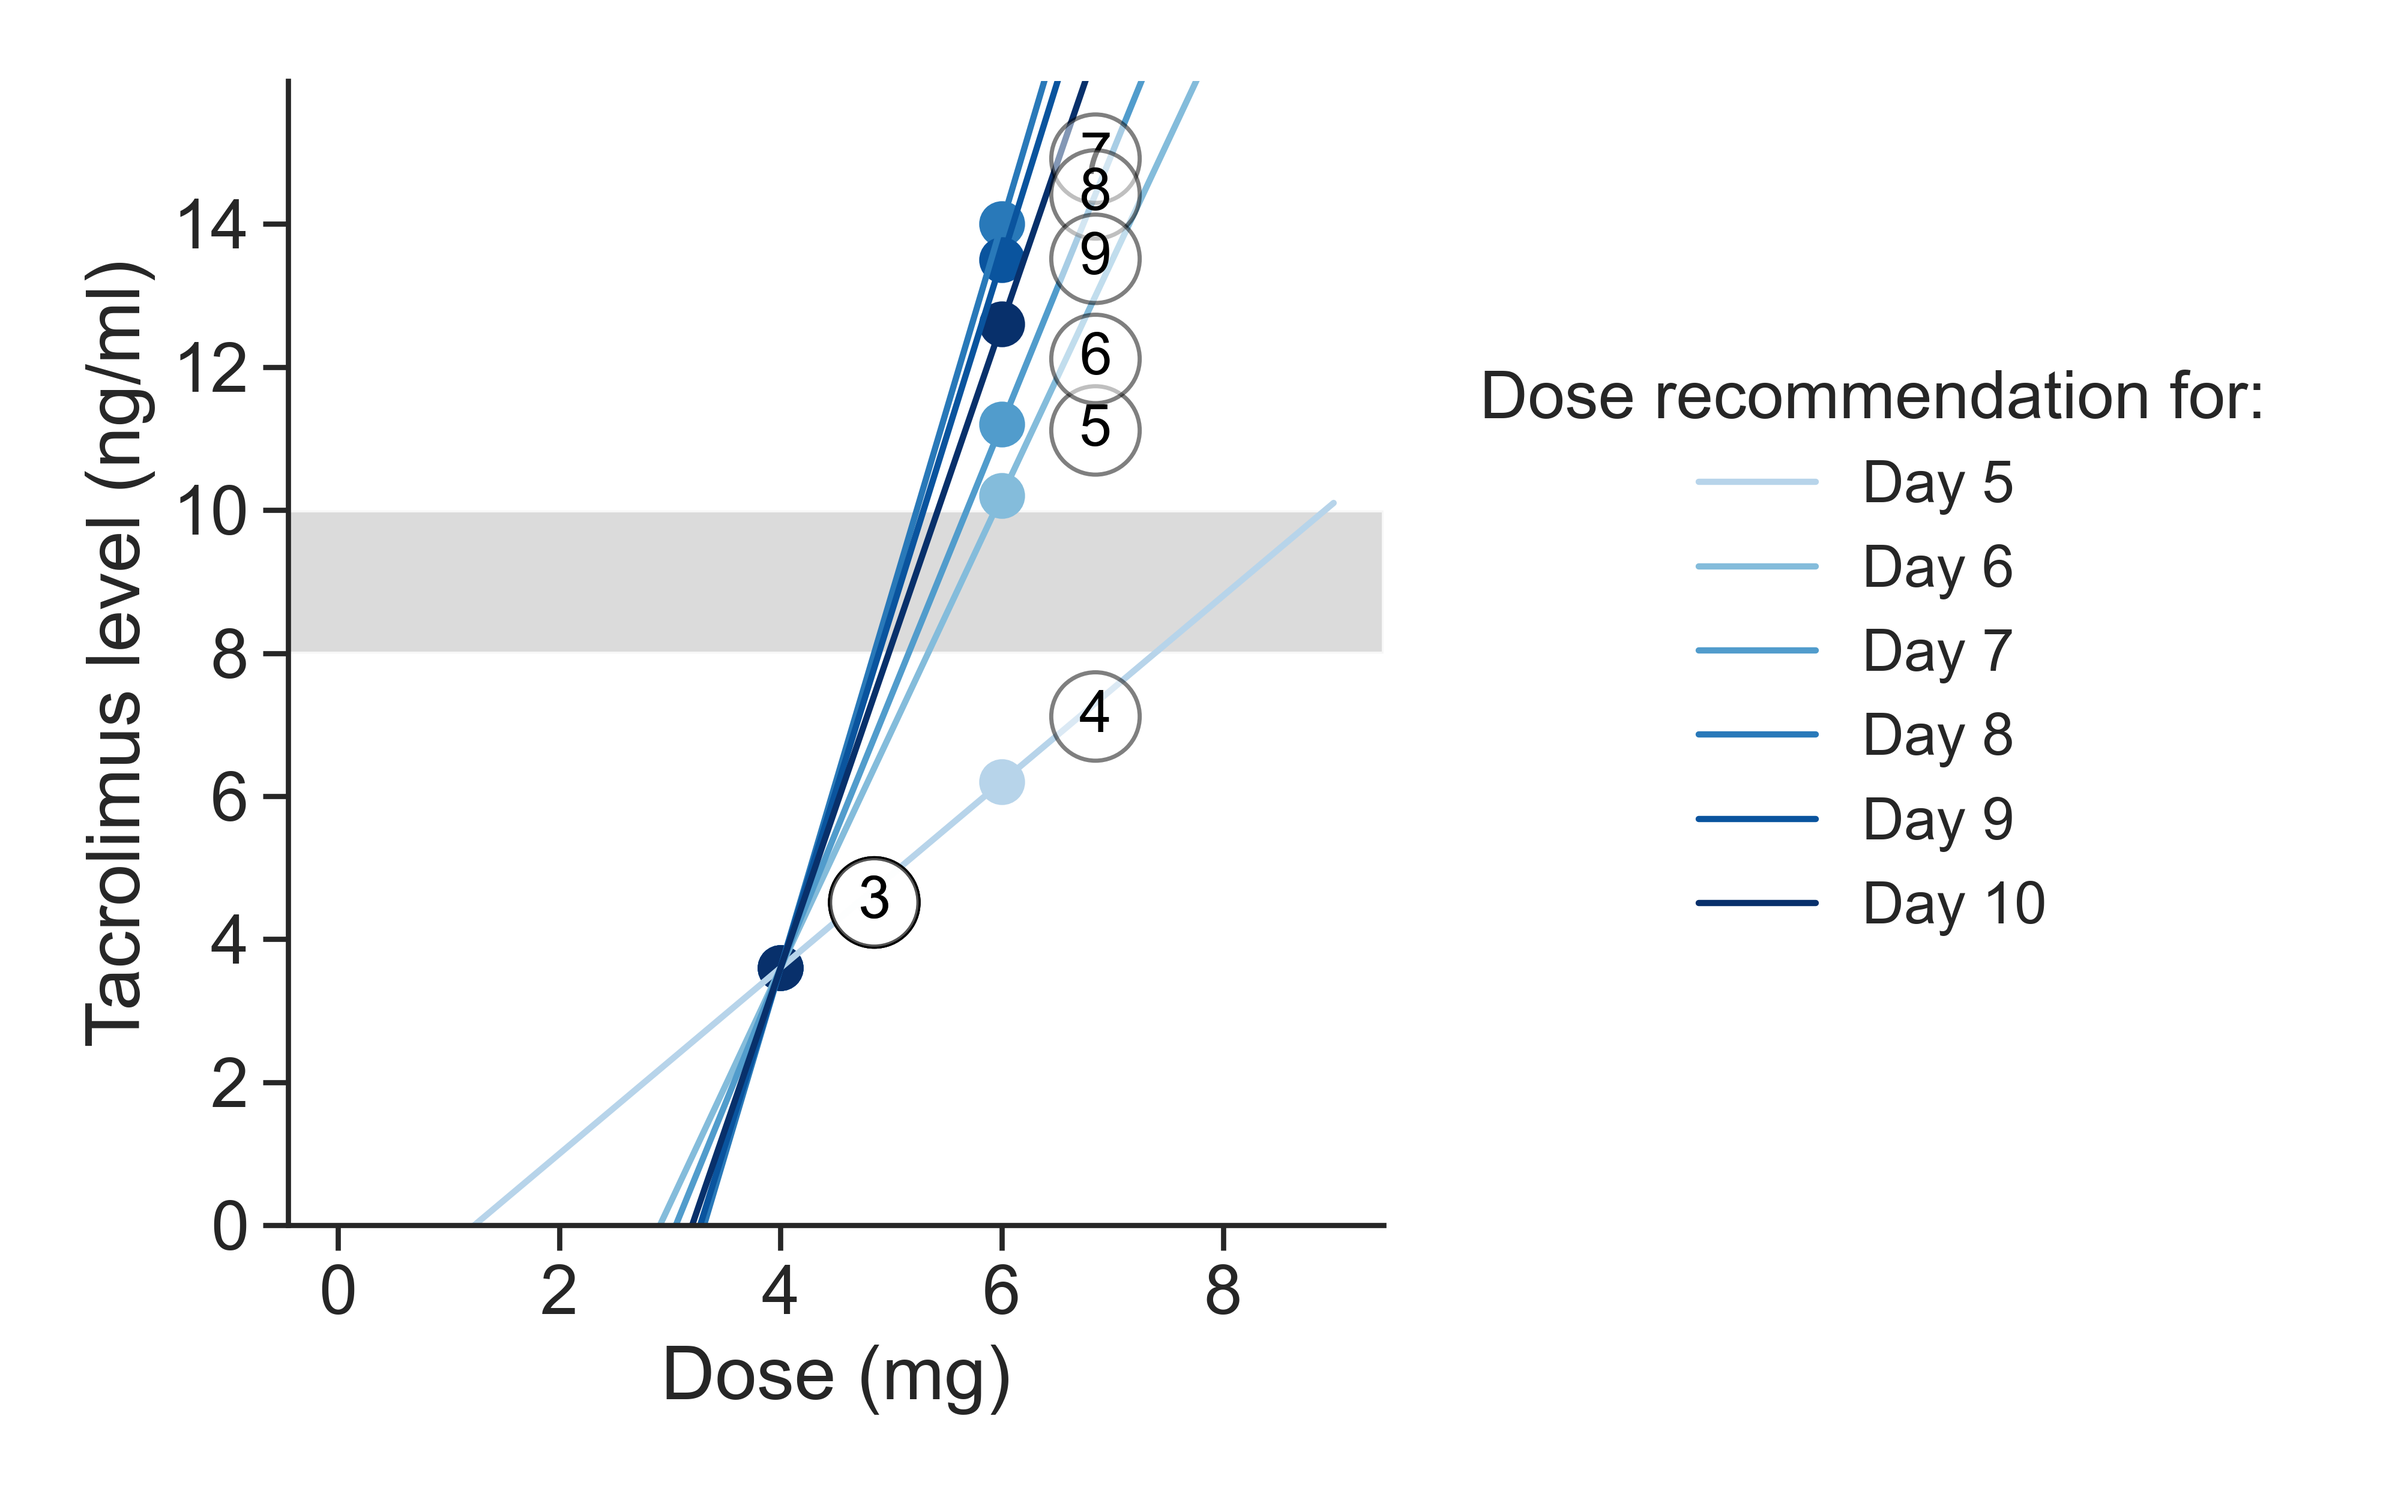
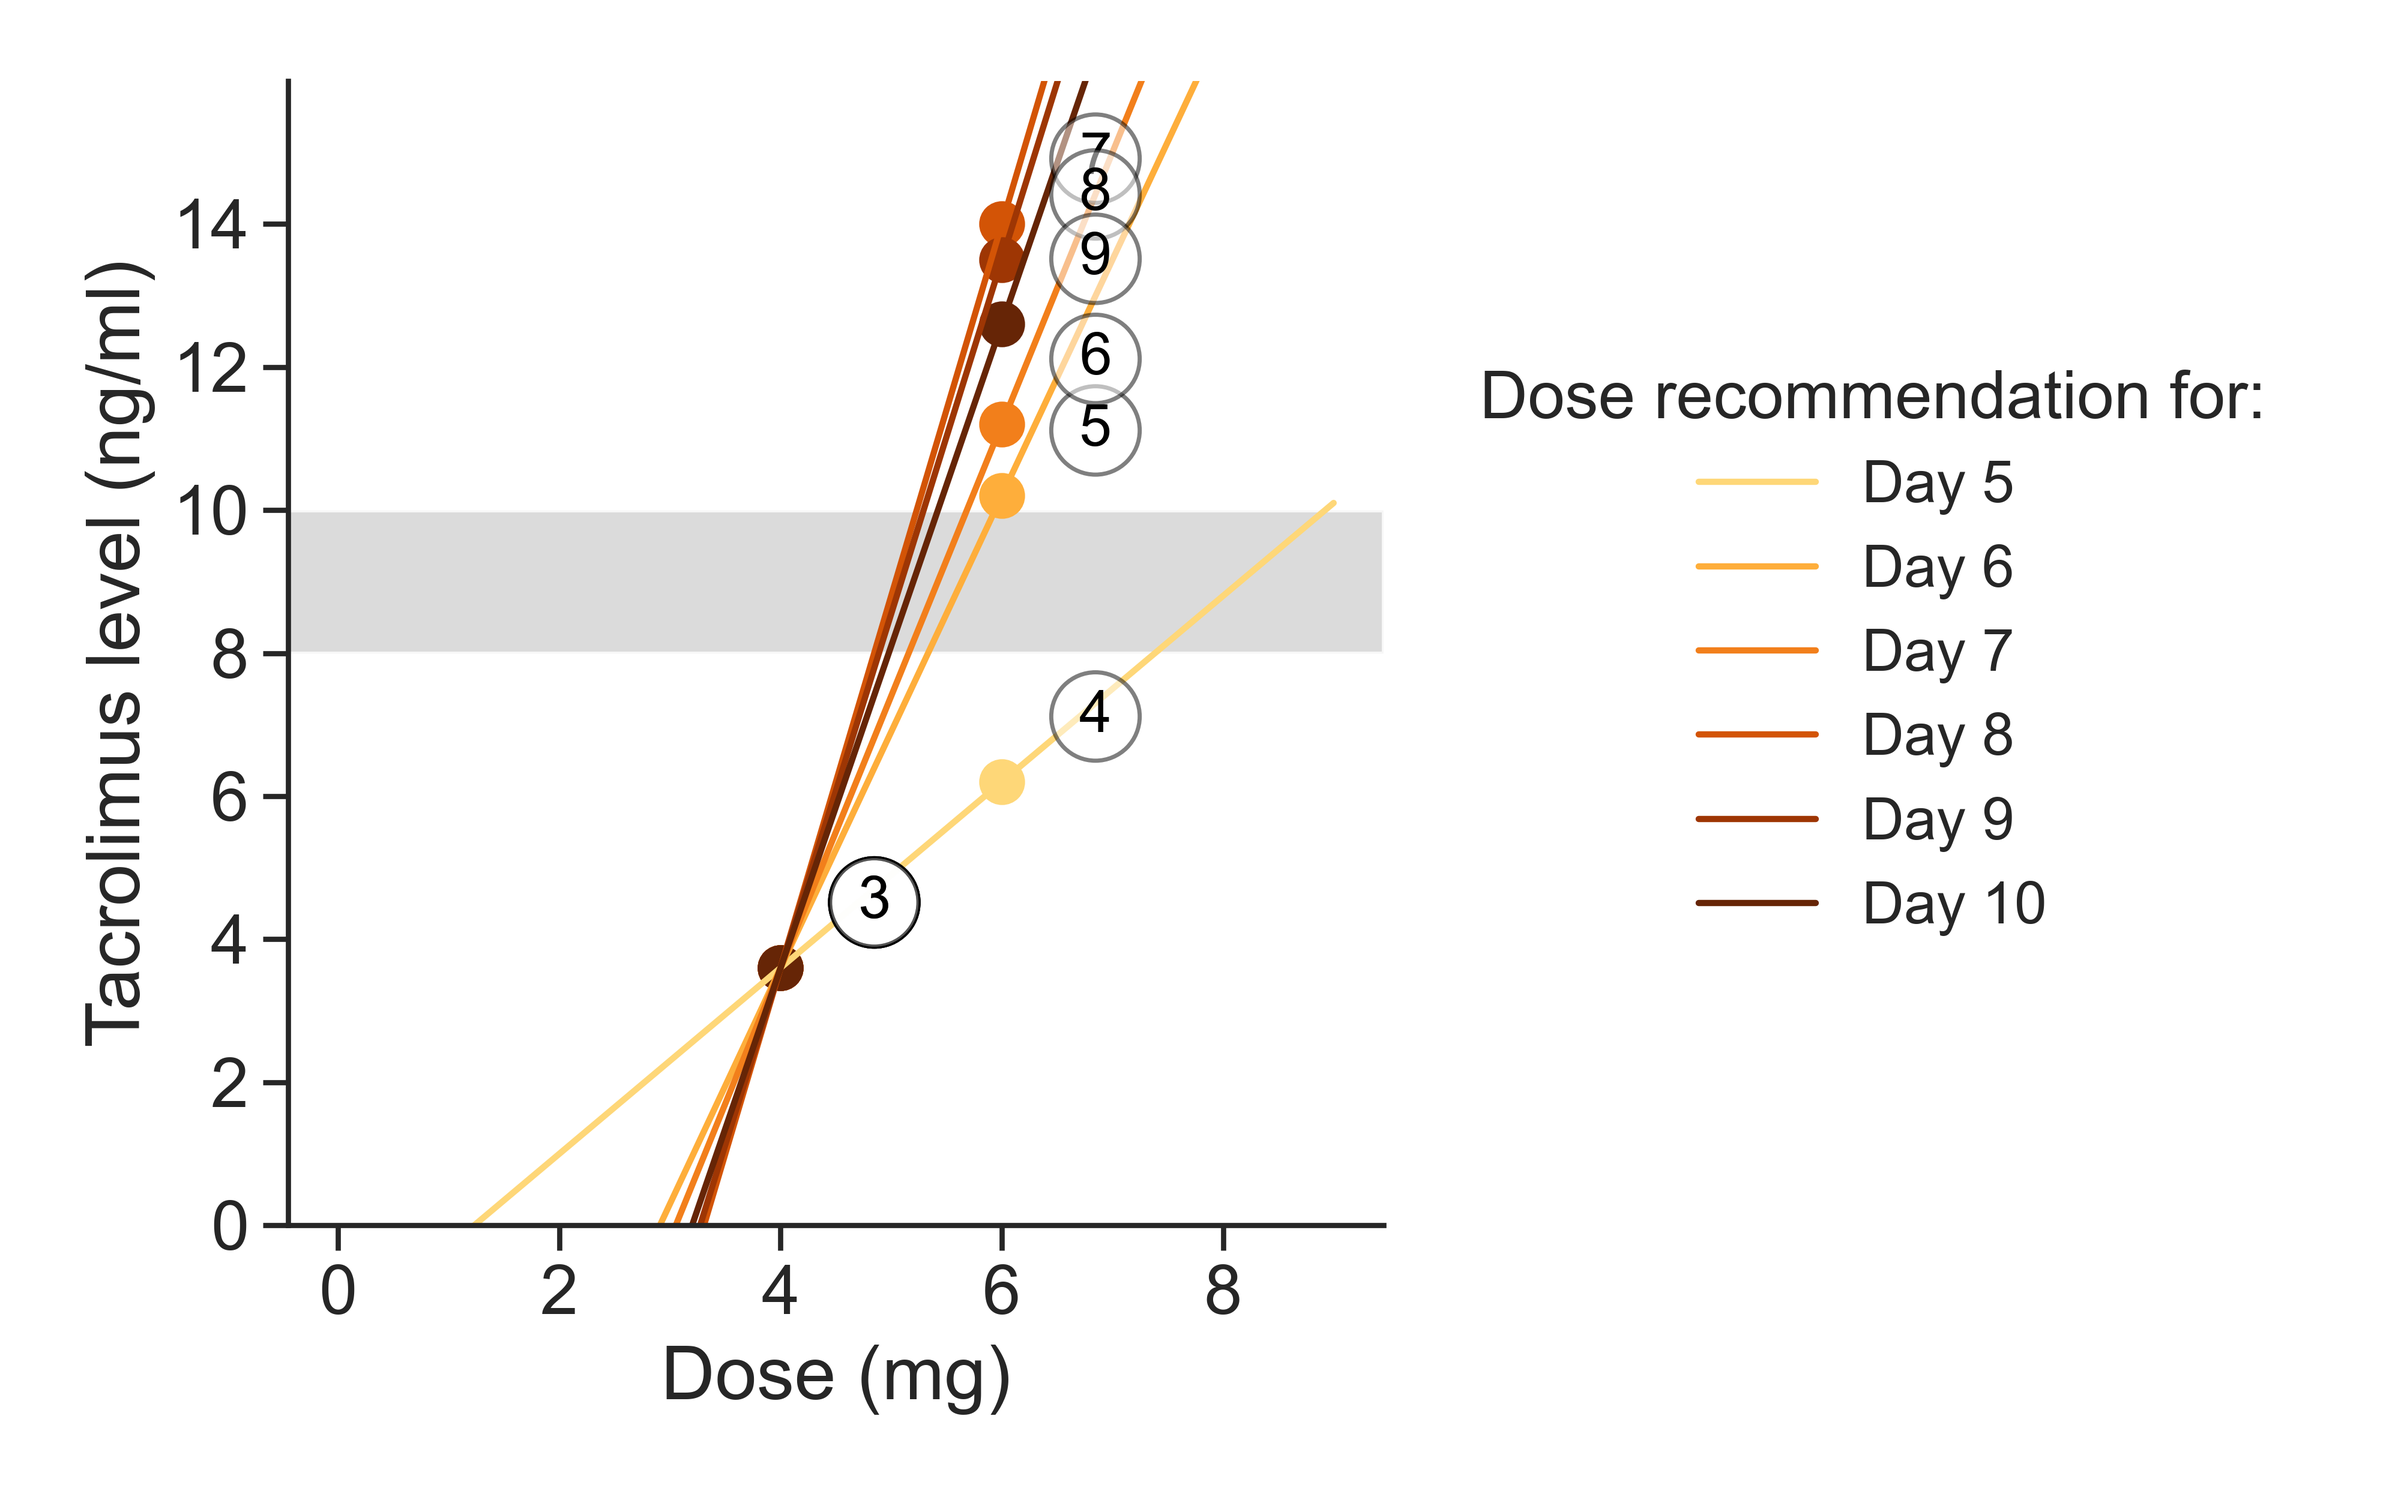
Add plotting code for projected doses and responses for CURATE.AI

diff --git a/plotting.py b/plotting.py
@@ -8,6 +8,7 @@ from scipy.stats import mannwhitneyu
 from sklearn.metrics import mean_squared_error
 import math
 from matplotlib import colors
+from matplotlib.pyplot import cm
 
 ##### New graphs after meeting with NUH ######
 
@@ -1023,7 +1024,6 @@ def CURATE_assisted_result_distribution(method_dat, method_string):
 
         return final_df_list
 
-
 def read_file_and_remove_unprocessed_pop_tau(file_string='output (with pop tau by LOOCV).xlsx', sheet_string='result'):
     dat = pd.read_excel(file_string, sheet_name=sheet_string)
 
@@ -1173,7 +1173,7 @@ def case_series_120(plot=False):
         plt.plot(3.5, 10.6, marker="o", markeredgecolor="black", markerfacecolor="white")
         plt.savefig('patient_120_RW_profiles.png', dpi=500, facecolor='w', bbox_inches='tight')
 
-    return combined_df
+    return dat_original, combined_df
 
 def case_series_118(plot=False):
     """
@@ -1290,27 +1290,27 @@ def case_series_118_repeated_dosing_multiple_plots():
     dat_original, combined_df = case_series_118()
     
     # Subset repeated doses
-    combined_df = combined_df[(combined_df.pred_day > 4) & (combined_df.pred_day < 11)].reset_index(drop=True)
+    combined_df = combined_df[(combined_df.pred_day > 4) & (combined_df.pred_day < 10)].reset_index(drop=True)
 
     sns.set(style='white', font_scale=2,
            rc={"xtick.bottom":True, "ytick.left":True})
 
-    plt.subplots(1, 6, figsize=(25,5))
+    plt.subplots(1, 5, figsize=(25,5))
 
     # Loop through number of predictions chosen
-    for i in range(6):
+    for i in range(5):
 
-        plt.subplot(1,6,i+1)
+        plt.subplot(1,5,i+1)
 
         # Plot regression line
         x = np.array([combined_df.x[i*2],combined_df.x[i*2+1]])
         y = np.array([combined_df.y[i*2],combined_df.y[i*2+1]])
         a, b = np.polyfit(x, y, 1)
         x_values = np.linspace(0, 9)
-        plt.plot(x_values, a*x_values + b, linestyle='-')
+        plt.plot(x_values, a*x_values + b, linestyle='-', color='y')
 
         # Plot scatter points
-        plt.scatter(x, y, s=100)
+        plt.scatter(x, y, s=100, color='y')
 
         plt.axhspan(8, 10, facecolor='grey', alpha=0.2)
 
@@ -1327,7 +1327,7 @@ def case_series_118_repeated_dosing_multiple_plots():
         for j in range(2):
             plt.text(x=combined_df.x[i*2+j]+0.4,y=combined_df.y[i*2+j]+0.4,s=int(combined_df.day[i*2+j]), 
                 fontdict=dict(color='black',size=16),
-                bbox=dict(facecolor='white', ec='black', alpha=0.5, boxstyle='circle'))
+                bbox=dict(facecolor='y', ec='black', alpha=0.5, boxstyle='circle'))
             
     plt.tight_layout()
     plt.savefig('patient_118_case_series_repeated.png',dpi=500)
@@ -1343,7 +1343,7 @@ def case_series_118_repeated_dosing_single_plot():
     # Subset repeated doses
     combined_df = combined_df[(combined_df.pred_day > 4) & (combined_df.pred_day < 11)].reset_index(drop=True)
     
-    color = iter(cm.Blues(np.linspace(0.3, 1, 6)))
+    color = iter(cm.YlOrBr(np.linspace(0.3, 1, 6)))
 
     sns.set(style='white', font_scale=1.5,
            rc={"figure.figsize":(8,5), "xtick.bottom":True, "ytick.left":True})
@@ -1388,6 +1388,94 @@ def case_series_118_repeated_dosing_single_plot():
     plt.savefig('patient_118_case_series_repeated_one.png',dpi=500)
     
     return combined_df
+
+def case_series_118_repeated_dosing_dose_vs_day():
+    """Line and scatter plot of repeated dose vs day for CURATE.AI-assisted vs SOC"""
+    
+    dat_original, combined_df = case_series_118()
+    clean_dat = pd.read_excel('output (with pop tau by LOOCV).xlsx', sheet_name='clean')
+    
+    # Subset pred_days with repeated dose of 6mg
+    dat = dat_original[(dat_original.pred_day >= 5) & (dat_original.pred_day <= 9)]
+    CURATE_dosing = [7.5, 5.5, 5.5, 5, 5]
+    dat['CURATE.AI-assisted dosing'] = CURATE_dosing
+
+    # Subset columns
+    dat = dat[['pred_day','CURATE.AI-assisted dosing']]
+    dat = dat.rename(columns={'pred_day':'day'})
+
+    clean_dat = clean_dat_1.copy()
+
+    # Subset patient 118 data only
+    clean_dat = clean_dat[(clean_dat.patient == 118) & ((clean_dat.day >= 5) & (clean_dat.day <= 9))].reset_index(drop=True)
+
+    # Subset day and dose
+    clean_dat = clean_dat[['day', 'dose']]
+    clean_dat = clean_dat.rename(columns={'dose':'Standard of care dosing'})
+
+    # Combine both CURATE.AI-assisted dosing recommendations and actual dose given
+    combined_dat = dat.merge(clean_dat, how='left', on='day')
+
+    # Plot
+    sns.set(font_scale=2, rc={"figure.figsize": (7,7), "xtick.bottom":True, "ytick.left":True}, style='white')
+
+    plt.plot(combined_dat['day'], combined_dat['CURATE.AI-assisted dosing'], marker='^', color='m', label='CURATE.AI-assisted dosing', ms=10)
+    plt.plot(combined_dat['day'], combined_dat['Standard of care dosing'], marker='o', color='y', label='Standard of care dosing', ms=10)
+    plt.legend(bbox_to_anchor=(0.5,-0.5), loc='center', frameon=False)
+    sns.despine()
+    plt.xlabel('Day')
+    plt.ylabel('Dose (mg)')
+    plt.yticks(np.arange(5,8,step=0.5))
+
+    plt.tight_layout()
+    plt.savefig('patient_118_repeated_dose_dose_vs_day.png',dpi=500)
+
+    return combined_dat
+
+def case_series_118_repeated_dosing_response_vs_dose():
+    """Scatter plot of dose and response for CURATE.AI-assisted and SOC dosing"""
+    dat_original, combined_df = case_series_118()
+    clean_dat = pd.read_excel('output (with pop tau by LOOCV).xlsx', sheet_name='clean')
+
+    # Subset pred_days with repeated dose of 6mg
+    dat = dat_original[(dat_original.pred_day >= 5) & (dat_original.pred_day <= 9)].reset_index(drop=True)
+
+    # Add column for CURATE recommendation
+    CURATE_dosing = [7.5, 5.5, 5.5, 5, 5]
+    dat['CURATE-recommended dose'] = CURATE_dosing
+
+    # Add column for predicted response if CURATE dose was administered instead
+    dat['predicted_response_based_on_rec'] = dat['coeff_1x'] * dat['CURATE-recommended dose'] + dat['coeff_0x']
+
+    dat = dat[['pred_day', 'dose', 'response', 'CURATE-recommended dose', 'predicted_response_based_on_rec']]
+
+    # Plot
+    sns.set(font_scale=2, rc={"figure.figsize": (7,7), "xtick.bottom":True, "ytick.left":True}, style='white')
+
+    plt.scatter(x=dat['CURATE-recommended dose'], y=dat['predicted_response_based_on_rec'], marker='^', color='m', label='CURATE.AI-assisted dosing', s=100)
+    plt.scatter(x=dat['dose'], y=dat['response'], marker='o', color='y', label='Standard of care dosing', s=100)
+    plt.legend(bbox_to_anchor=(0.5,-0.5), loc='center', frameon=False)
+    sns.despine()
+    plt.xlabel('Dose (mg)')
+    plt.ylabel('Tacrolimus level (ng/ml)')
+    plt.axhspan(8, 10, facecolor='grey', alpha=0.2)
+    plt.xticks(np.arange(4,8.5,step=0.5))
+    plt.xlim(4,8)
+    plt.yticks(np.arange(8,15,step=1))
+
+    for i in range(dat.shape[0]):
+        plt.text(x=dat.dose[i]+0.1,y=dat.response[i]+0.1,s=int(dat.pred_day[i]),
+                 fontdict=dict(color='black',size=13),
+                 bbox=dict(facecolor='y', ec='black', alpha=0.5, boxstyle='circle'))
+
+        plt.text(x=dat.loc[i, 'CURATE-recommended dose']+0.2,y=dat.loc[i, 'predicted_response_based_on_rec']+0.2,s=int(dat.pred_day[i]),
+             fontdict=dict(color='black',size=13),
+             bbox=dict(facecolor='m', ec='black', alpha=0.5, boxstyle='circle'))
+
+    plt.tight_layout()
+    plt.savefig('patient_118_repeated_dose_response_vs_dose.png',dpi=500)
+    
+    return dat
 
 # LOOCV for all methods
 
